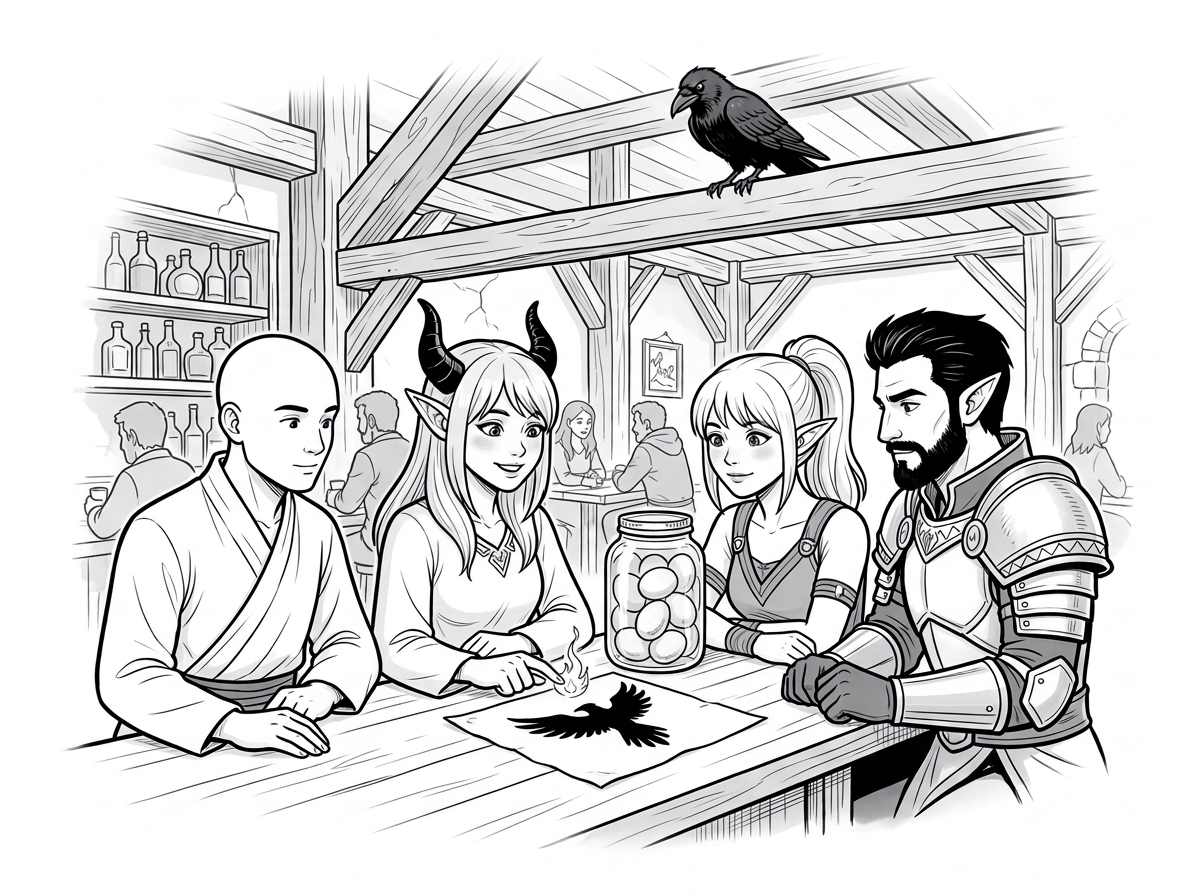
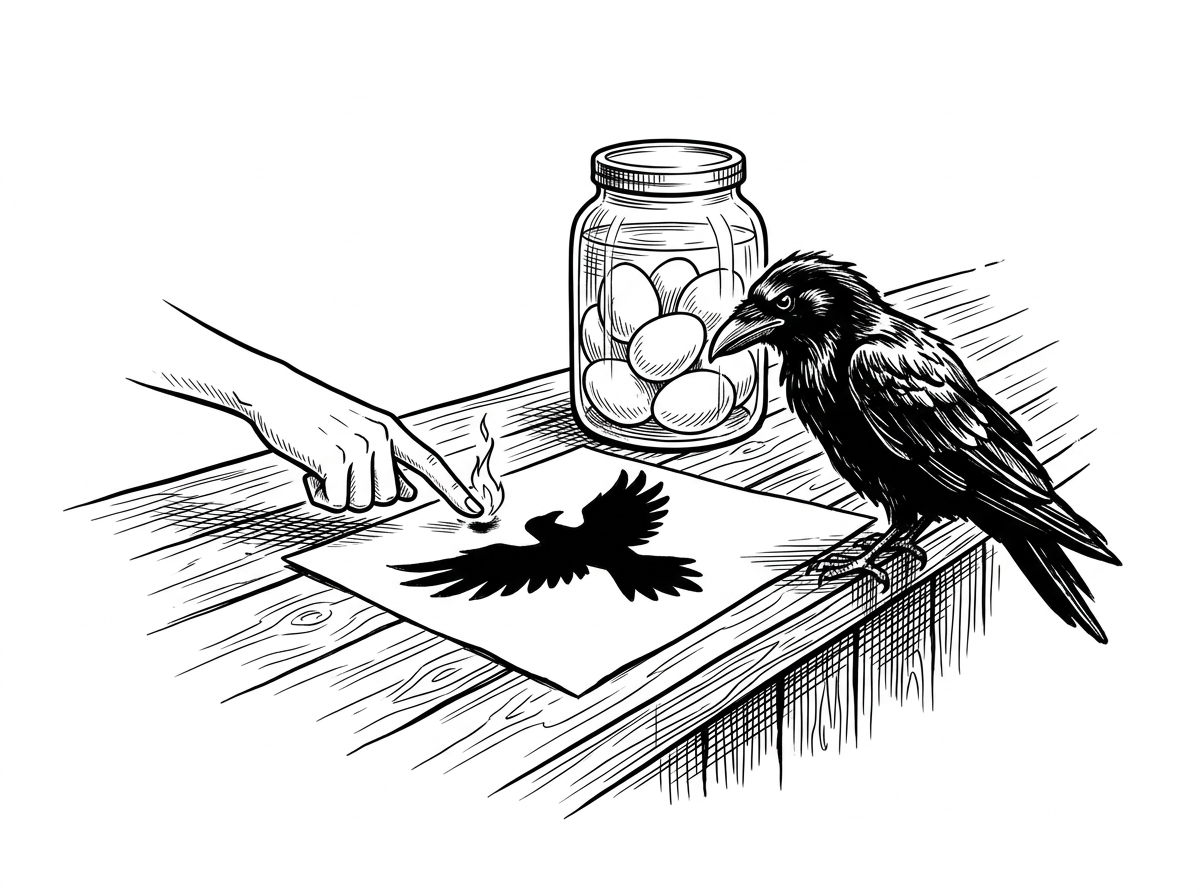
fix ch2 ims

diff --git a/Images/prompt.md b/Images/prompt.md
@@ -28,21 +28,37 @@ Clean black-and-white digital pen-and-ink vignette illustration for a children's
 ## Base Prompt: Chapterbook Characters (Monochrome Line Art)
 When including characters in Chapterbook scenes, render them with clean, approachable, slightly stylized youth-fantasy proportions, expressive eyes, and smooth unhatched skin on their faces:
 
-* **AKNEMEIA**: Young female tiefling sorceress with two curved solid-black horns rising from her forehead, pointed elf-like ears, and long straight light-toned hair with bangs. She wears a belted fantasy tunic and a cloak studded with dark dragonscales along the shoulders.
+* **AKNEMEIA**: Young female tiefling sorceress with two curved solid-black horns rising from her forehead, pointed elf-like ears, and long straight light-toned hair with bangs. She wears a belted fantasy tunic/dress and a cloak studded with dark dragonscales along the shoulders.
 * **SZETH**: Young bald human warrior-monk with a clean-shaven face, nimble build, wearing a simple white martial arts wrap robe (gi) tied with a dark sash belt and sandals. He carries a rune-carved shortsword (*Istamlakh*) or greatsword (*Beastslayer*).
-* **ERYNETH**: Young female elf ranger with pointed ears and light/white hair tied back in a high ponytail with bangs. She wears a ranger tunic with dragonscale-reinforced leather armor, arm bracers, a quiver of arrows, and a wooden longbow.
+* **ERYNETH**: Young female elf ranger with pointed ears and light/white hair tied back in a high ponytail with bangs. She wears **fitted dark-shaded leather armor (cuirass/vest), trousers, and boots (never a robe or dress)**, arm bracers, a quiver of arrows, and a wooden longbow.
 * **CARYNDAL**: Male half-elf with pointed ears, short solid-black hair, and a neatly trimmed dark beard, wearing fantasy shoulder armor (pauldrons), breastplate, and bracers, and carrying a lute.
 
-## Chapterbook Vignette Templates
+## Subject Selection & Composition Guidelines (AI-Aware Best Practices)
+To maximize visual consistency across books and minimize AI generation artifacts (such as shifting facial features, mismatched outfits, or tangled multi-character poses), select and compose Chapterbook illustrations according to the following hierarchy:
 
-### 1. Character & Action Vignette
-> "[Insert Base Interior Art Style]. The scene depicts [describe character action/pose and key props, e.g., four young fantasy adventurers battling a giant swirling water elemental at the edge of a murky swamp lake]. Framing elements like [trees / cavern rocks / tavern beams] curve gently around the sides, fading cleanly into the pure white background."
+1. **Prefer Evocative Single-Item or Close-Up Spot Vignettes (Highest Priority):**
+   - Whenever a scene can be represented by an iconic object, symbol, or tight close-up action, choose that over a full group scene (e.g., *a close-up of a single hand scorching a raven emblem onto parchment beside a jar of pickled eggs*, *a sword driven into turf*, *a shattered staff and crystal*, or *three ancient dwarven tomes on a stone pedestal*).
+2. **Use Simple, Uncluttered Scene Layouts & Environments:**
+   - Keep compositions simple with **one clear focal point** and at most 1–2 supporting elements.
+   - Frequently use unpopulated or lightly populated environmental vignettes (e.g., *a sunken halfling inn*, *a torchlit dungeon corridor*, *a grand banquet table*, or *kobolds peeking from behind cavern rocks*) where character-to-character continuity is not required.
+3. **Pull the Camera Back (Wide Shots & Rear/Three-Quarter Silhouettes):**
+   - When characters or combat *are* shown, use a **slightly further-off (wide or medium-wide) camera angle** and frame characters **from behind, over the shoulder, or at a small scale** facing a large monster or landmark (as in `01_TKoM_01.1`, `07.1`, `08.1`, and `09.1`). This makes small facial and costume details much less important.
+4. **Limit Multi-Character Close-Ups & Complex Interactions:**
+   - Avoid medium/close-up shots of all four protagonists together unless essential. If a character-focused vignette is needed, feature **at most 1–2 characters** in a simple, readable pose (as in `01_TKoM_05.2` or `06.1`).
+   - Do not prompt four distinct characters simultaneously performing four different weapon/spell actions in the same frame.
+5. **Avoid In-Image Text:**
+   - Do not prompt for readable signs, banners, or book titles inside interior vignettes; rely on visual icons instead (e.g., a painted egg sign rather than the words *"The Pickled Egg"*).
 
-### 2. Environmental / Architectural Vignette
-> "[Insert Base Interior Art Style]. A clear one-point or two-point perspective view of [describe location, e.g., a sunken halfling tavern in a village street / a torchlit dwarven stone hall]. Crisp architectural linework, clean wood and stone textures, uncluttered composition, with the outer edges of the scene tapering off into a pure white background."
+## Chapterbook Vignette Templates (Ordered by Preference)
 
-### 3. Iconic Object / Spot Vignette
-> "[Insert Base Interior Art Style]. A centered spot illustration of [describe object, e.g., a glowing rune-carved shortsword resting beside ancient dwarven books on a stone pedestal / a piece of parchment scorched with a fiery raven emblem]. Minimal ground lines beneath the object, surrounded by generous pure white negative space."
+### 1. Iconic Object / Close-Up Spot Vignette (Preferred)
+> "[Insert Base Interior Art Style]. A centered, uncluttered spot illustration of [describe a single evocative object or tight close-up action, e.g., a single hand with a tiny spark of fire at the fingertip scorching a bold raven silhouette onto a square of parchment, resting on a wooden bar counter beside a glass jar of pickled eggs]. Simple composition with minimal surrounding lines and generous pure white (#FFFFFF) negative space."
+
+### 2. Simple Environmental / Creature Vignette (Preferred)
+> "[Insert Base Interior Art Style]. A clean, simple view of [describe a single location or creature focus, e.g., a towering swirling water monster rising up from a murky swamp lake framed by willow trees / a crooked halfling tavern partially sunken into a dirt sinkhole]. Uncluttered layout with a single clear focal point, tapering off cleanly into a pure white (#FFFFFF) background."
+
+### 3. Pulled-Back / Wide-Angle Action Vignette (Use Sparingly)
+> "[Insert Base Interior Art Style]. A wide, pulled-back shot of [describe large landmark or monster in the center, e.g., a massive burrowing landshark erupting from the dirt in a ruined mining town], with [1–2 small or rear-facing adventurer silhouettes in the foreground/distance] for scale. Camera is positioned far enough back that fine facial and outfit details are simplified. Framing elements fade naturally into the pure white (#FFFFFF) background."
 
 ## Base Prompt: Chapterbook Cover Art
 > "A bold, painterly dark-fantasy book cover illustration in portrait orientation (3:4 aspect ratio). Centered heraldic emblem composition featuring [central motif, e.g., a fierce silver dragon and a shadowy black dragon locked in a spiral / a stylized black raven with outstretched wings] set in front of an ornate, symmetrical golden Celtic/arcane geometric crest. Swirling ribbons of deep obsidian-black shadow smoke curl around the emblem against a [textured parchment / pitch-black] background. Classic embossed metallic gold serif typography at the top reading '[TOP TITLE]' and at the bottom reading '[BOTTOM TITLE]'."

diff --git a/2. Chapterbook/02_LmSh_00. Outline.md b/2. Chapterbook/02_LmSh_00. Outline.md
@@ -64,7 +64,7 @@ This outline covers the second book in the Chapterbook adaptation of "The Keeper
 # Chapter Outline
 The chapters are as follows.
 
-## Chapter 1: The Pickled Egg and the Sinking Town
+## Chapter 1: Pickled Eggs and the Sinking Towns
 - Following the royal feast in Caer Callidyrr, the Keepers go exploring and visit a rundown tavern in the Low Quarter called *The Pickled Egg*, owned by the nervous, business-minded half-elf Aribert.
 - Szeth and Caryndal excitedly plan how to make *The Keepers of Mordrin* famous across the islands ("Always Be Branding And Bartering!"). Aknemeia uses magic to sketch a striking raven emblem on parchment, and Szeth and Caryndal commission embroidered team patches and convince Aribert to advertise for them.
 - Realizing that monster-hunting is too dangerous for an ordinary bird, Szeth leaves Mordrin the raven at *The Pickled Egg* under Aribert's reluctant care to serve as the official team mascot. Aribert is bemused, but agrees because, well, they paid him.
